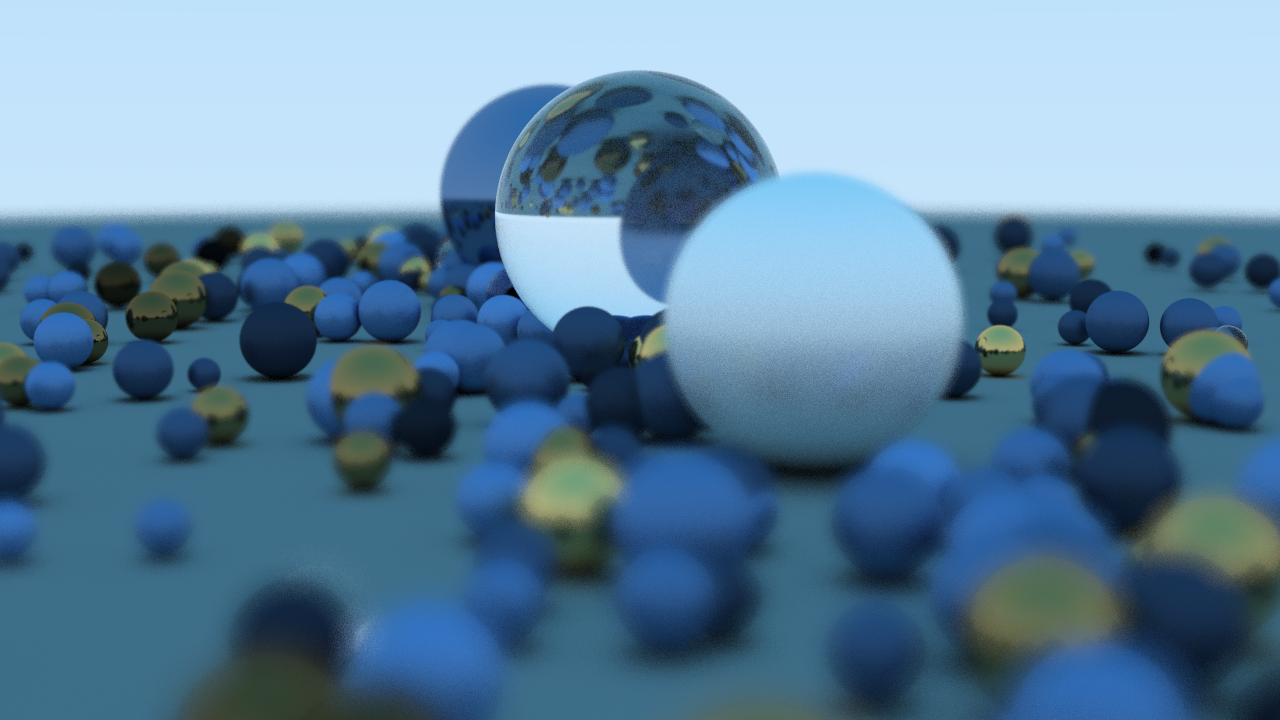
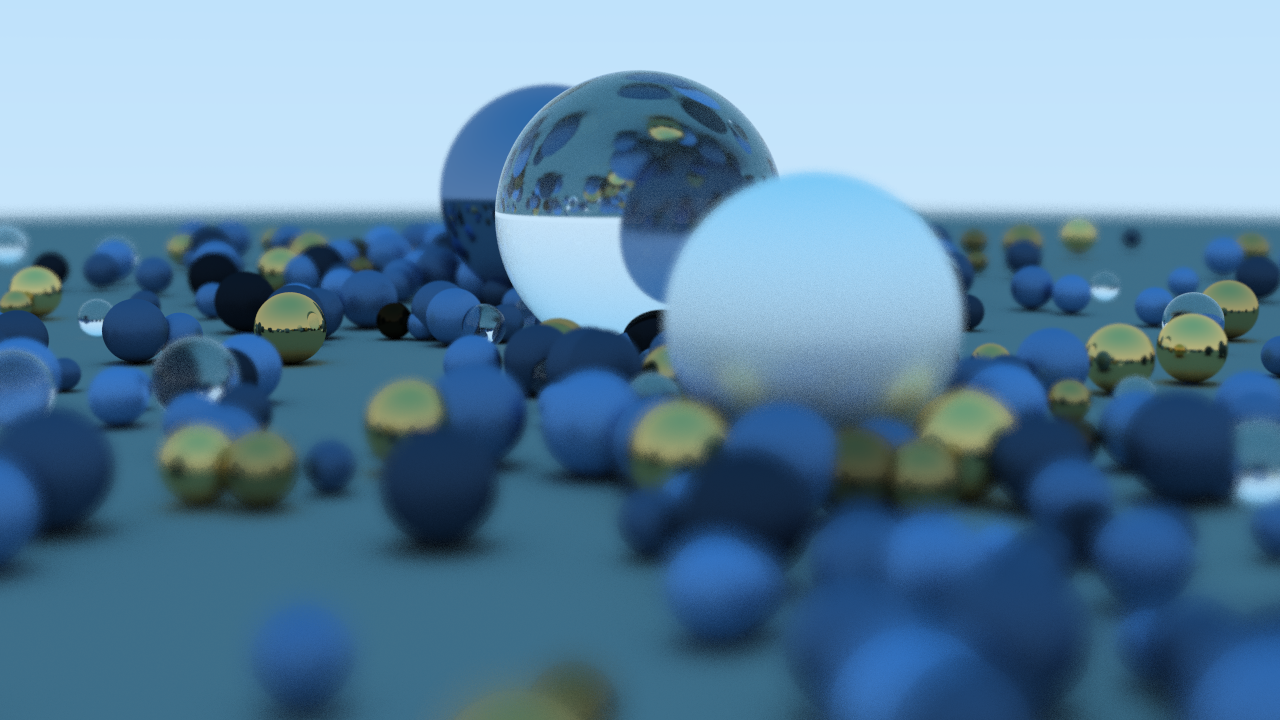
Fixed image flipping

diff --git a/Scene.cpp b/Scene.cpp
@@ -39,7 +39,7 @@ void Scene::generate()
                     const auto albedo = Utils::RandFloat() * COLOUR_BLUE;
                     shapes.emplace_back(std::make_unique<Sphere>(centre, radius, std::make_unique<Lambertian>(albedo)));
                 }
-                else if(randValue < 0.95f)
+                else if(randValue < 0.90f)
                 {
                     const auto albedo = Utils::RandFloat() * COLOUR_ORANGE;
                     shapes.emplace_back(std::make_unique<Sphere>(centre, radius, std::make_unique<Metal>(albedo, 0.5f * Utils::RandFloat())));

diff --git a/Raytracer.cpp b/Raytracer.cpp
@@ -98,11 +98,8 @@ void Raytracer::compute(SharedData *shared)
             }
 
             shared->mutex.lock();
-
-            // Row index is reversed to avoid producing an upside down image
-            const auto reversedIndex = data.height - data.rowIndex - 1;
-            shared->rows[reversedIndex] = std::move(row);
-
+            // The index math flips the image the right way
+            shared->rows[data.height - data.rowIndex - 1] = std::move(row);
             shared->mutex.unlock();
         }
         else
